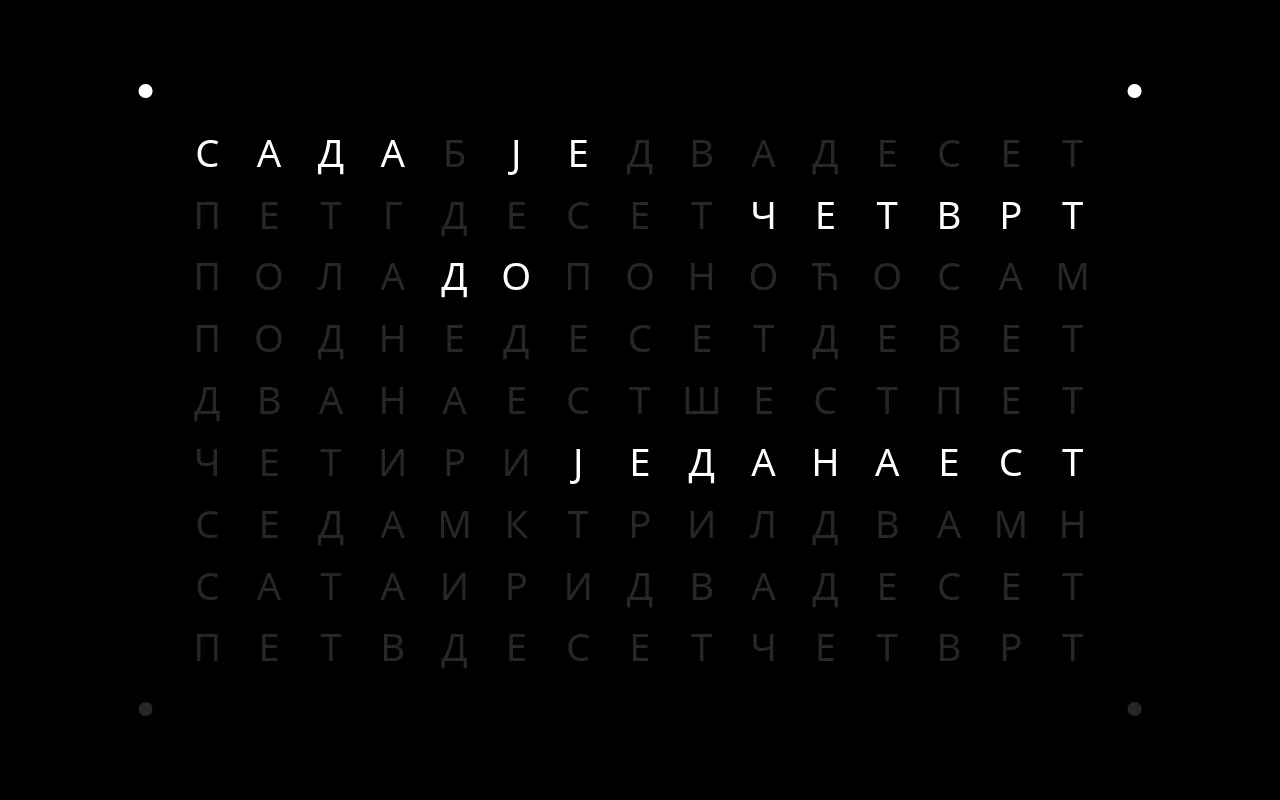
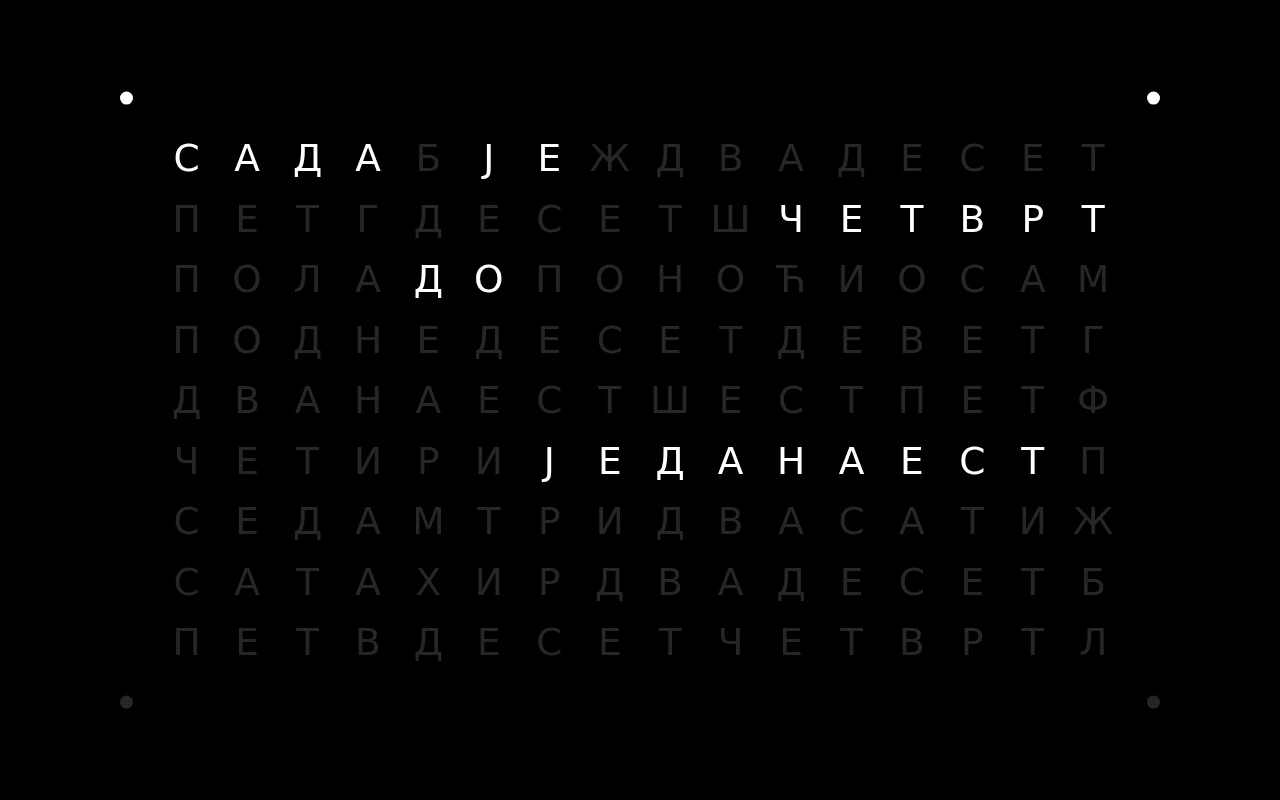
release v0.1.7

diff --git a/README.md b/README.md
@@ -35,8 +35,8 @@ All at 10:47, with Slow drift off; every other setting at its default. Regenerat
 | Italiano | 11×12 | *mezzogiorno, mezzanotte* (default) or *sono le dodici* |
 | Español | 11×11 | *son las tres* (default) or *son las tres en punto* |
 | Português † | 16×9 | *Portugal (um quarto, menos)* (default) or *Brasil (quinze, para as)* |
-| Srpski (latinica) † | 15×9 | |
-| Српски (ћирилица) † | 15×9 | |
+| Srpski (latinica) | 16×9 | |
+| Српски (ћирилица) | 16×9 | |
 | 简体中文 | 6×6 | *一刻, 三刻* (default), *四十五分* or *差五分* |
 
 † Unverified: the wording still waits for a native speaker's check.

diff --git a/CHANGELOG.md b/CHANGELOG.md
@@ -1,0 +1,6 @@
+# Changelog
+
+## 0.1.7
+
+- Serbian, both alphabets: the grid is now 16×9, so SATI lights as one word and JE and I no longer run into DVADESET. Thanks to @PengBG, who found these and proposed the fix.
+- Serbian, both alphabets: a native speaker checked the wording, so the README no longer marks it unverified. Thanks again to @PengBG.
